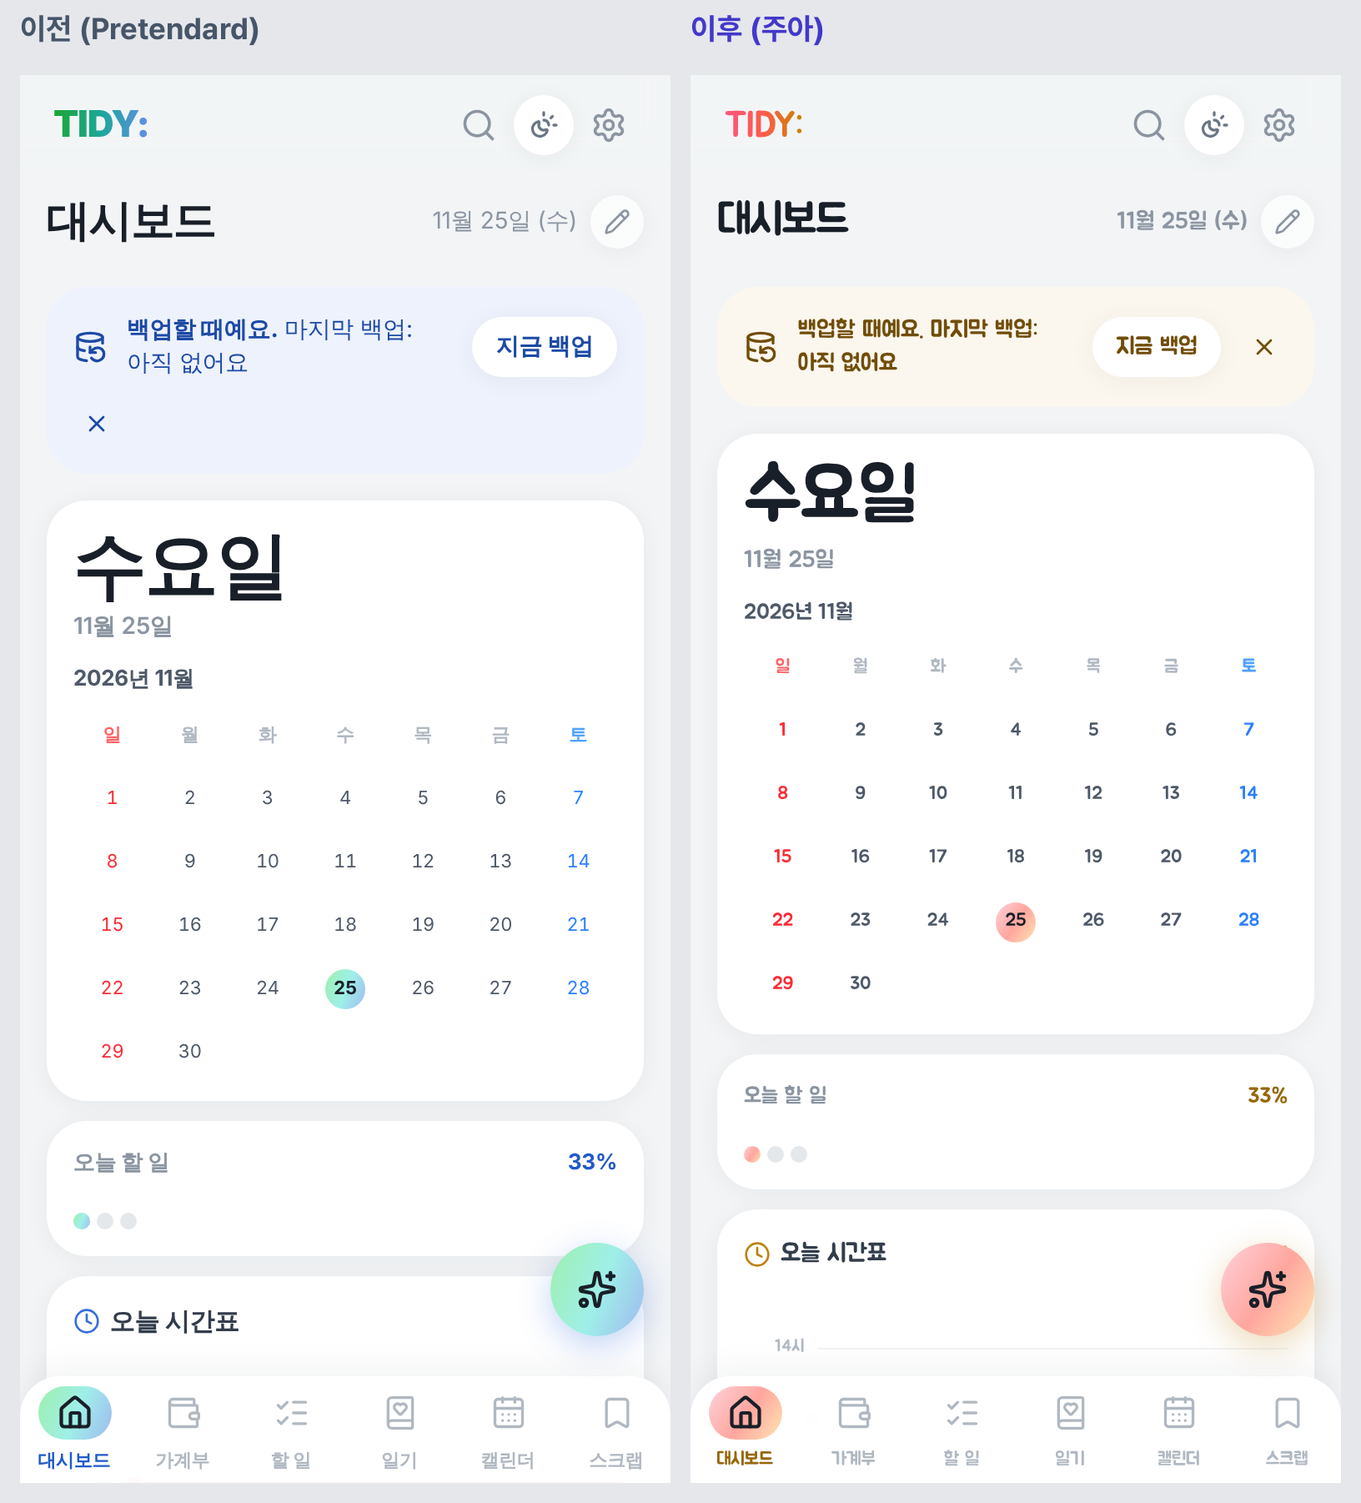
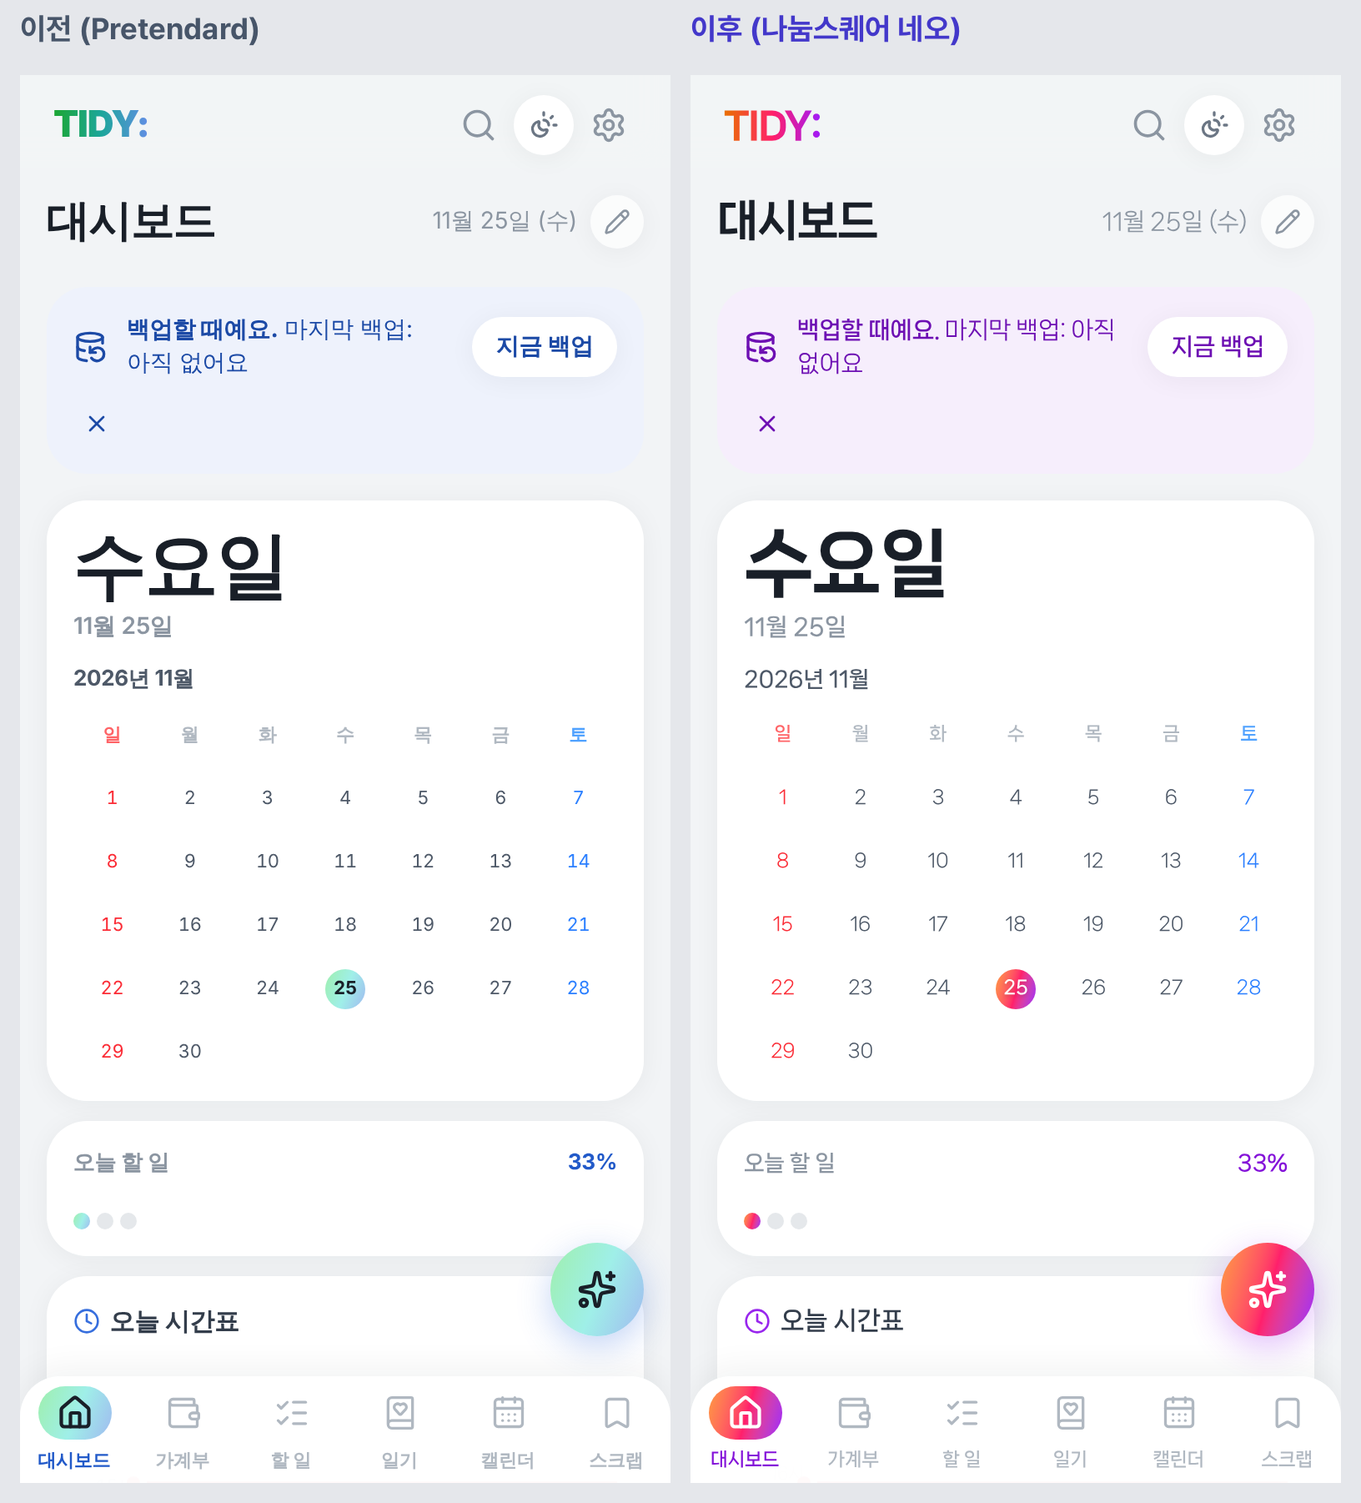
글꼴을 인기 무료 글꼴 5개로 바꾸기 (Noto Sans KR · 나눔스퀘어 네오 · G마켓 산스 · 에스코어 드림 · 스포카)
Claude-Session: https://claude.ai/code/session_01Ji86Qvhzs9juMvDwFiXPMj

diff --git a/src/lib/appFont.ts b/src/lib/appFont.ts
@@ -1,56 +1,88 @@
 /**
  * 앱 글꼴 고르기 (사용자 요청 2026-11-25)
- * 무료(OFL) 한글 글꼴 12개를 종류별로 나눠 두고, 설정에서 고르면 앱 전체(웹 · 폰 앱) 글씨가 바뀐다.
+ * 많이 쓰는 무료 한글 글꼴 5개 중에서 고르면 앱 전체(웹 · 폰 앱) 글씨가 바뀐다.
  * - 기본은 지금처럼 앱에 들어 있는 Pretendard. 다른 글꼴은 앱에 넣지 않고(앱 크기 그대로) 고를 때 인터넷에서 받는다
- * - 구글 폰트 / jsDelivr 의 글꼴 CSS 를 받아서 이름을 'Tidy Font' 로 바꾸고 크기 맞춤(size-adjust)을 넣는다
- *   구글 폰트는 글자 묶음마다 조각 파일로 나뉘어 있어서, 화면에 나온 글자의 조각만 받는다
+ * - 구글 폰트는 CSS 를 받아 이름만 'Tidy Font' 로 바꾼다 (글자 묶음별 조각이라 화면에 나온 글자의 조각만 받는다)
+ * - 나머지는 jsDelivr 의 굵기별 파일로 @font-face 를 직접 만든다 (쓰는 굵기만 받는다)
  * - 받은 CSS 는 이 기기에 저장해 두고, 글꼴 파일은 웹은 서비스 워커(tidy-fonts), 폰 앱은 WebView 캐시에 남는다
  * - 인터넷이 안 될 때 처음 고르면 받을 때까지 Pretendard 로 보인다
  * 이 기기에만 저장한다 (localStorage 'tidy-font').
  */
 
-export type FontKind = 'basic' | 'round' | 'mood' | 'cute' | 'hand'
+export interface FontFile {
+  /** 굵기 하나(400) 또는 범위('600 800') */
+  weight: string
+  url: string
+}
 
 export interface AppFont {
   id: string
   name: string
-  kind: FontKind
-  /** 글꼴 CSS 주소 */
-  css: string
-  /** 구글 폰트면 미리보기 글자만 담은 작은 조각을 받을 수 있다 (&text=) */
-  google?: boolean
-  /** 같은 크기에서 작아 보이는 손글씨를 키운다 (%) */
-  size?: number
-  /** 굵기가 하나뿐인 글꼴: 굵은 글씨를 억지로 두껍게 만들지 않는다 (번져 보여서) */
-  oneWeight?: boolean
+  /** 어떤 글꼴인지 한 줄 */
+  desc: string
+  /** 구글 폰트 CSS 주소 (글자 묶음별 조각이라 쓰는 글자만 받는다) */
+  css?: string
+  /** 구글 폰트에 없는 글꼴: 굵기별 파일 (jsDelivr) */
+  faces?: FontFile[]
 }
 
-export const FONT_KINDS: { kind: FontKind; label: string; desc: string }[] = [
-  { kind: 'basic', label: '깔끔한 기본형', desc: '반듯하고 숫자가 잘 읽혀요' },
-  { kind: 'round', label: '둥글고 부드러운', desc: '모서리가 동글동글, 순한 느낌' },
-  { kind: 'mood', label: '분위기 있는', desc: '책 같거나 독특한 모양' },
-  { kind: 'cute', label: '귀엽고 굵은', desc: '통통하고 눈에 잘 띄어요' },
-  { kind: 'hand', label: '손글씨', desc: '직접 쓴 다이어리 느낌' },
-]
-
-const g = (family: string) => `https://fonts.googleapis.com/css2?family=${family}&display=swap`
+const JSD = 'https://cdn.jsdelivr.net'
+const NSN = `${JSD}/npm/nanumsquareneo@0.0.5/woff2/NanumSquareNeoTTF-`
+const GM = `${JSD}/gh/projectnoonnu/noonfonts_2001@1.1/GmarketSans`
+const SC = `${JSD}/gh/projectnoonnu/noonfonts_six@1.2/S-CoreDream-`
+const SP = `${JSD}/npm/spoqa-han-sans@3.3.0/Subset/SpoqaHanSansNeo/SpoqaHanSansNeo-`
 
 export const DEFAULT_FONT = 'pretendard'
 
+/** 많이 쓰는 무료 한글 글꼴 (사용자 요청 2026-11-25: 여러 개 말고 인기 글꼴로) */
 export const APP_FONTS: AppFont[] = [
-  { id: DEFAULT_FONT, name: 'Pretendard (기본)', kind: 'basic', css: '' },
-  { id: 'suit', name: 'SUIT', kind: 'basic', css: 'https://cdn.jsdelivr.net/npm/@sun-typeface/suit@2.0.5/fonts/static/woff2/SUIT.css' },
-  { id: 'ibm-plex', name: 'IBM Plex Sans KR', kind: 'basic', css: g('IBM+Plex+Sans+KR:wght@300;400;500;600;700'), google: true },
-  { id: 'nanum-square-round', name: '나눔스퀘어라운드', kind: 'round', css: 'https://cdn.jsdelivr.net/npm/@kfonts/nanum-square-round@0.2.0/index.css' },
-  { id: 'gowun-dodum', name: '고운돋움', kind: 'round', css: g('Gowun+Dodum'), google: true, oneWeight: true },
-  { id: 'orbit', name: '오르빗', kind: 'mood', css: g('Orbit'), google: true, oneWeight: true },
-  { id: 'gowun-batang', name: '고운바탕', kind: 'mood', css: g('Gowun+Batang:wght@400;700'), google: true },
-  { id: 'jua', name: '주아', kind: 'cute', css: g('Jua'), google: true, oneWeight: true },
-  { id: 'do-hyeon', name: '도현', kind: 'cute', css: g('Do+Hyeon'), google: true, oneWeight: true },
-  { id: 'gaegu', name: '개구', kind: 'hand', css: g('Gaegu:wght@300;400;700'), google: true, size: 112 },
-  { id: 'nanum-pen', name: '나눔펜', kind: 'hand', css: g('Nanum+Pen+Script'), google: true, size: 128, oneWeight: true },
-  { id: 'hi-melody', name: '하이멜로디', kind: 'hand', css: g('Hi+Melody'), google: true, size: 118, oneWeight: true },
-  { id: 'gamja-flower', name: '감자꽃', kind: 'hand', css: g('Gamja+Flower'), google: true, size: 112, oneWeight: true },
+  { id: DEFAULT_FONT, name: 'Pretendard', desc: '기본 · 요즘 앱에서 가장 많이 써요' },
+  { id: 'noto-sans-kr', name: 'Noto Sans KR', desc: '구글 기본 한글 · 어디서나 무난해요', css: 'https://fonts.googleapis.com/css2?family=Noto+Sans+KR:wght@300;400;500;600;700;800&display=swap' },
+  {
+    id: 'nanum-square-neo',
+    name: '나눔스퀘어 네오',
+    desc: '네이버 · 반듯하고 또렷해요',
+    faces: [
+      { weight: '300', url: `${NSN}aLt.woff2` },
+      { weight: '400 500', url: `${NSN}bRg.woff2` },
+      { weight: '600 700', url: `${NSN}cBd.woff2` },
+      { weight: '800', url: `${NSN}dEb.woff2` },
+      { weight: '900', url: `${NSN}eHv.woff2` },
+    ],
+  },
+  {
+    id: 'gmarket-sans',
+    name: 'G마켓 산스',
+    desc: '광고 · 배너에서 자주 보는 글꼴',
+    faces: [
+      { weight: '300', url: `${GM}Light.woff` },
+      { weight: '400 500', url: `${GM}Medium.woff` },
+      { weight: '600 900', url: `${GM}Bold.woff` },
+    ],
+  },
+  {
+    id: 's-core-dream',
+    name: '에스코어 드림',
+    desc: '가늘고 세련된 느낌',
+    faces: [
+      { weight: '300', url: `${SC}3Light.woff` },
+      { weight: '400', url: `${SC}4Regular.woff` },
+      { weight: '500', url: `${SC}5Medium.woff` },
+      { weight: '600 700', url: `${SC}6Bold.woff` },
+      { weight: '800 900', url: `${SC}7ExtraBold.woff` },
+    ],
+  },
+  {
+    id: 'spoqa-han-sans-neo',
+    name: '스포카 한 산스 네오',
+    desc: '숫자가 깔끔해서 앱 화면에 많이 써요',
+    faces: [
+      { weight: '300', url: `${SP}Light.woff2` },
+      { weight: '400', url: `${SP}Regular.woff2` },
+      { weight: '500', url: `${SP}Medium.woff2` },
+      { weight: '600 900', url: `${SP}Bold.woff2` },
+    ],
+  },
 ]
 
 export const fontById = (id: string | null | undefined) => APP_FONTS.find((f) => f.id === id)
@@ -72,20 +104,25 @@ export function getFontId(): string {
 }
 
 /**
- * 받은 글꼴 CSS 를 앱에서 쓸 모양으로 바꾼다
- * - 글꼴 이름을 family 로 (원래 이름이 무엇이든)
- * - ./파일 같은 상대 주소를 CSS 주소 기준 절대 주소로
+ * 받은 구글 폰트 CSS 를 앱에서 쓸 모양으로 바꾼다
+ * - 글꼴 이름을 family 로, 상대 주소는 CSS 주소 기준 절대 주소로
  * - local() 은 뺀다 (기기에 깔린 다른 판이 섞이지 않게)
- * - 크기 맞춤과 font-display: swap 을 넣는다
  */
-export function rewriteFontCss(css: string, base: string, family: string, size = 100): string {
+export function rewriteFontCss(css: string, base: string, family: string): string {
   return css
     .replace(/\/\*[\s\S]*?\*\//g, '')
     .replace(/font-family\s*:\s*[^;}]+/g, `font-family: '${family}'`)
     .replace(/local\((['"]?)[^)]*\1\)\s*,\s*/g, '')
     .replace(/url\((['"]?)([^'")]+)\1\)/g, (_m, _q, u: string) => `url('${new URL(u, base).href}')`)
     .replace(/font-display\s*:\s*[^;}]+;?/g, '')
-    .replace(/@font-face\s*{/g, `@font-face { font-display: swap;${size !== 100 ? ` size-adjust: ${size}%;` : ''}`)
+    .replace(/@font-face\s*{/g, '@font-face { font-display: swap;')
+}
+
+/** 굵기별 파일로 @font-face 를 만든다 */
+export function facesCss(faces: FontFile[], family: string): string {
+  return faces
+    .map((f) => `@font-face { font-family: '${family}'; font-style: normal; font-weight: ${f.weight}; font-display: swap; src: url('${f.url}') format('${f.url.endsWith('.woff2') ? 'woff2' : 'woff'}'); }`)
+    .join('\n')
 }
 
 function putStyle(id: string, css: string) {
@@ -115,17 +152,23 @@ async function fetchCss(url: string): Promise<string> {
   return res.text()
 }
 
+/** 글꼴 하나의 @font-face CSS (구글 폰트면 받아 온다) */
+async function fontCss(font: AppFont, family: string, text?: string): Promise<string> {
+  if (font.faces) return facesCss(font.faces, family)
+  if (!font.css) return ''
+  // 견본 글씨는 그 글자만 담은 아주 작은 조각만 받는다
+  const url = text ? `${font.css}&text=${encodeURIComponent([...new Set(text)].join(''))}` : font.css
+  return rewriteFontCss(await fetchCss(url), url, family)
+}
+
 function setRoot(font: AppFont | undefined) {
   const root = document.documentElement
   if (!font || font.id === DEFAULT_FONT) {
     root.style.removeProperty('--font-sans')
-    root.style.removeProperty('font-synthesis-weight')
     delete root.dataset.font
     return
   }
   root.style.setProperty('--font-sans', `'${FAMILY}', ${FALLBACK}`)
-  if (font.oneWeight) root.style.setProperty('font-synthesis-weight', 'none')
-  else root.style.removeProperty('font-synthesis-weight')
   root.dataset.font = font.id
 }
 
@@ -146,9 +189,12 @@ export async function applyFont(id: string): Promise<void> {
     setRoot(font)
   }
   try {
-    const css = rewriteFontCss(await fetchCss(font.css), font.css, FAMILY, font.size)
+    const css = await fontCss(font, FAMILY)
     if (turn !== loading) return
     putStyle(STYLE_ID, css)
+    // 본문 굵기 파일을 받을 때까지 기다렸다가 바꾼다 (글씨가 번쩍 바뀌지 않게)
+    await document.fonts?.load(`400 16px '${FAMILY}'`, '가1').catch(() => [])
+    if (turn !== loading) return
     setRoot(font)
     try {
       localStorage.setItem(CSS_KEY, JSON.stringify({ id: font.id, css }))
@@ -183,17 +229,12 @@ export const previewFamily = (id: string) => `Tidy Preview ${id}`
 
 const previewed = new Set<string>()
 
-/**
- * 고르기 화면의 견본 글씨용 글꼴을 받는다.
- * 구글 폰트는 견본 글자만 담은 아주 작은 파일(&text=)만 받는다
- */
+/** 고르기 화면의 견본 글씨용 글꼴을 넣는다 */
 export async function loadPreviewFont(font: AppFont, text: string): Promise<void> {
-  if (!font.css || previewed.has(font.id)) return
+  if (font.id === DEFAULT_FONT || previewed.has(font.id)) return
   previewed.add(font.id)
-  const url = font.google ? `${font.css}&text=${encodeURIComponent([...new Set(text)].join(''))}` : font.css
   try {
-    const css = rewriteFontCss(await fetchCss(url), url, previewFamily(font.id), font.size)
-    putStyle(`tidy-font-preview-${font.id}`, css)
+    putStyle(`tidy-font-preview-${font.id}`, await fontCss(font, previewFamily(font.id), text))
   } catch {
     previewed.delete(font.id)
   }

diff --git a/src/components/settings/FontCard.tsx b/src/components/settings/FontCard.tsx
@@ -1,12 +1,12 @@
 import { Check, LoaderCircle } from 'lucide-react'
 import { useEffect, useState } from 'react'
-import { APP_FONTS, FONT_KINDS, getFontId, loadPreviewFont, previewStack, setFont } from '../../lib/appFont'
+import { APP_FONTS, getFontId, loadPreviewFont, previewStack, setFont } from '../../lib/appFont'
 import { useToast } from '../common/Toast'
 
 const SAMPLE = '오늘 할 일 3개 · 1,284,000원'
 
 /**
- * 설정 > 글꼴 (사용자 요청 2026-11-25): 종류별로 나눈 무료 한글 글꼴 중에서 골라 앱 전체 글씨를 바꾼다.
+ * 설정 > 글꼴 (사용자 요청 2026-11-25): 많이 쓰는 무료 한글 글꼴 중에서 골라 앱 전체 글씨를 바꾼다.
  * 버튼마다 그 글꼴로 견본 글씨를 보여 주고, 누르면 바로 바뀐다 (이 기기에만 저장)
  */
 export default function FontCard() {
@@ -16,7 +16,7 @@ export default function FontCard() {
   const [, setReady] = useState(0)
 
   useEffect(() => {
-    const text = SAMPLE + APP_FONTS.map((f) => f.name).join('')
+    const text = SAMPLE + APP_FONTS.map((f) => f.name + f.desc).join('')
     void Promise.all(APP_FONTS.map((f) => loadPreviewFont(f, text))).then(() => setReady((n) => n + 1))
   }, [])
 
@@ -39,36 +39,30 @@ export default function FontCard() {
       <p className="mb-1 text-sm text-slate-500">앱 전체 글씨체를 골라요. 누르면 바로 바뀌어요.</p>
       <p className="text-xs break-keep text-slate-400">모두 무료 글꼴이에요. 기본 말고는 처음 고를 때 인터넷에서 받아요 (앱 크기는 그대로).</p>
 
-      {FONT_KINDS.map((k) => (
-        <div key={k.kind}>
-          <p className="mt-5 mb-2 text-sm font-bold text-slate-700">
-            {k.label} <span className="font-normal text-slate-400">· {k.desc}</span>
-          </p>
-          <div className="grid gap-2 sm:grid-cols-2">
-            {APP_FONTS.filter((f) => f.kind === k.kind).map((f) => {
-              const on = current === f.id
-              return (
-                <button
-                  key={f.id}
-                  type="button"
-                  onClick={() => void pick(f.id)}
-                  aria-pressed={on}
-                  className={`flex min-h-16 items-center gap-3 rounded-2xl border px-4 py-2.5 text-left ${on ? 'border-brand-500 bg-brand-50 ring-1 ring-brand-500' : 'border-slate-200 bg-white'}`}
-                  style={{ fontFamily: previewStack(f) }}
-                >
-                  <span className="min-w-0 flex-1">
-                    <span className="block text-[15px] font-semibold text-slate-900">{f.name}</span>
-                    <span className="block truncate text-sm text-slate-500">{SAMPLE}</span>
-                  </span>
-                  <span className={`flex size-6 shrink-0 items-center justify-center rounded-full ${on ? 'bg-brand-500 text-white' : 'border-2 border-slate-300'}`}>
-                    {busy === f.id ? <LoaderCircle className="size-3.5 animate-spin text-slate-500" aria-hidden /> : on && <Check className="size-3.5" strokeWidth={3.5} aria-hidden />}
-                  </span>
-                </button>
-              )
-            })}
-          </div>
-        </div>
-      ))}
+      <div className="mt-4 grid gap-2 sm:grid-cols-2">
+        {APP_FONTS.map((f) => {
+          const on = current === f.id
+          return (
+            <button
+              key={f.id}
+              type="button"
+              onClick={() => void pick(f.id)}
+              aria-pressed={on}
+              className={`flex min-h-16 items-center gap-3 rounded-2xl border px-4 py-2.5 text-left ${on ? 'border-brand-500 bg-brand-50 ring-1 ring-brand-500' : 'border-slate-200 bg-white'}`}
+              style={{ fontFamily: previewStack(f) }}
+            >
+              <span className="min-w-0 flex-1">
+                <span className="block text-[15px] font-bold text-slate-900">{f.name}</span>
+                <span className="block text-xs text-slate-400">{f.desc}</span>
+                <span className="mt-0.5 block truncate text-sm text-slate-600">{SAMPLE}</span>
+              </span>
+              <span className={`flex size-6 shrink-0 items-center justify-center rounded-full ${on ? 'bg-brand-500 text-white' : 'border-2 border-slate-300'}`}>
+                {busy === f.id ? <LoaderCircle className="size-3.5 animate-spin text-slate-500" aria-hidden /> : on && <Check className="size-3.5" strokeWidth={3.5} aria-hidden />}
+              </span>
+            </button>
+          )
+        })}
+      </div>
     </section>
   )
 }

diff --git a/tests/unit/appFont.test.ts b/tests/unit/appFont.test.ts
@@ -1,28 +1,33 @@
 import { describe, expect, it } from 'vitest'
-import { APP_FONTS, FONT_KINDS, rewriteFontCss } from '../../src/lib/appFont'
+import { APP_FONTS, facesCss, rewriteFontCss } from '../../src/lib/appFont'
 
 describe('앱 글꼴', () => {
-  it('종류마다 글꼴이 있고 기본 말고 12개', () => {
-    expect(APP_FONTS.filter((f) => f.id !== 'pretendard')).toHaveLength(12)
-    for (const k of FONT_KINDS) expect(APP_FONTS.some((f) => f.kind === k.kind)).toBe(true)
+  it('Pretendard(기본) + 인기 글꼴 5개, 기본 말고는 모두 받을 곳이 있다', () => {
+    expect(APP_FONTS.map((f) => f.name)).toEqual(['Pretendard', 'Noto Sans KR', '나눔스퀘어 네오', 'G마켓 산스', '에스코어 드림', '스포카 한 산스 네오'])
     expect(new Set(APP_FONTS.map((f) => f.id)).size).toBe(APP_FONTS.length)
+    for (const f of APP_FONTS.slice(1)) expect(Boolean(f.css) || (f.faces?.length ?? 0) > 0).toBe(true)
   })
 
-  it('CSS 이름을 바꾸고 상대 주소를 절대 주소로, local() 은 뺀다', () => {
-    const css = `@font-face {\n  font-family: '나눔스퀘어라운드';\n  src: local('나눔스퀘어라운드'), local('NanumSquareRound'), url(./NanumSquareRoundR.woff2) format('woff2');\n  font-display: swap;\n  font-weight: 400;\n}`
-    const out = rewriteFontCss(css, 'https://cdn.jsdelivr.net/npm/@kfonts/nanum-square-round@0.2.0/index.css', 'Tidy Font', 112)
+  it('굵기별 파일로 @font-face 를 만든다', () => {
+    const css = facesCss(
+      [
+        { weight: '400 500', url: 'https://cdn.jsdelivr.net/a.woff2' },
+        { weight: '700', url: 'https://cdn.jsdelivr.net/b.woff' },
+      ],
+      'Tidy Font',
+    )
+    expect(css).toContain("font-family: 'Tidy Font'; font-style: normal; font-weight: 400 500;")
+    expect(css).toContain("url('https://cdn.jsdelivr.net/a.woff2') format('woff2')")
+    expect(css).toContain("url('https://cdn.jsdelivr.net/b.woff') format('woff')")
+  })
+
+  it('구글 폰트 CSS 이름을 바꾸고 local() 은 뺀다', () => {
+    const css = `@font-face { font-family: 'Noto Sans KR'; font-display: swap; src: local('Noto Sans KR'), url(https://fonts.gstatic.com/s/notosanskr/a.woff2) format('woff2'); unicode-range: U+d723-d728; }`
+    const out = rewriteFontCss(css, 'https://fonts.googleapis.com/css2?family=Noto+Sans+KR', 'Tidy Font')
     expect(out).toContain("font-family: 'Tidy Font'")
-    expect(out).toContain("url('https://cdn.jsdelivr.net/npm/@kfonts/nanum-square-round@0.2.0/NanumSquareRoundR.woff2')")
-    expect(out).not.toContain('local(')
-    expect(out).toContain('size-adjust: 112%')
-    expect(out.match(/font-display/g)).toHaveLength(1)
-  })
-
-  it('구글 폰트 절대 주소는 그대로', () => {
-    const css = `@font-face { font-family: 'Jua'; src: url(https://fonts.gstatic.com/s/jua/v18/a.woff2) format('woff2'); unicode-range: U+d723-d728; }`
-    const out = rewriteFontCss(css, 'https://fonts.googleapis.com/css2?family=Jua', 'Tidy Font')
-    expect(out).toContain("url('https://fonts.gstatic.com/s/jua/v18/a.woff2')")
+    expect(out).toContain("url('https://fonts.gstatic.com/s/notosanskr/a.woff2')")
     expect(out).toContain('unicode-range: U+d723-d728')
-    expect(out).not.toContain('size-adjust')
+    expect(out).not.toContain('local(')
+    expect(out.match(/font-display/g)).toHaveLength(1)
   })
 })

diff --git a/docs/개발-기록-조각/project-thread-igj8wy.md b/docs/개발-기록-조각/project-thread-igj8wy.md
@@ -1,8 +1,8 @@
 ## 6
-| 2026-11-25 | #? | 기능 | 설정 > 글꼴: 무료(OFL) 한글 글꼴 12개를 종류별(깔끔한 기본형 · 둥글고 부드러운 · 분위기 있는 · 귀엽고 굵은 · 손글씨)로 나눠 고르면 앱 전체 글씨가 바뀜. 기본 Pretendard 말고는 고를 때 인터넷(구글 폰트 · jsDelivr)에서 받아서 앱 크기는 그대로 | 검토 중 |
+| 2026-11-25 | #? | 기능 | 설정 > 글꼴: 많이 쓰는 무료 한글 글꼴(Noto Sans KR · 나눔스퀘어 네오 · G마켓 산스 · 에스코어 드림 · 스포카 한 산스 네오) 중에서 고르면 앱 전체 글씨가 바뀜. 기본 Pretendard 말고는 고를 때 인터넷(구글 폰트 · jsDelivr)에서 받아서 앱 크기는 그대로 | 검토 중 |
 
 ## 4-6
-| 글꼴 고르기 | 설정 > 글꼴. Pretendard(기본) + SUIT · IBM Plex Sans KR · 나눔스퀘어라운드 · 고운돋움 · 오르빗 · 고운바탕 · 주아 · 도현 · 개구 · 나눔펜 · 하이멜로디 · 감자꽃. 이 기기에만 저장 | 🧪 | #? |
+| 글꼴 고르기 | 설정 > 글꼴. Pretendard(기본) + Noto Sans KR · 나눔스퀘어 네오 · G마켓 산스 · 에스코어 드림 · 스포카 한 산스 네오. 이 기기에만 저장 | 🧪 | #? |
 
 ## 5-2
 | 글꼴 고르기 | #? | 폰 앱에서 글꼴을 고른 뒤 비행기 모드로 다시 켜도 고른 글꼴이 남는지 (WebView 캐시) |
